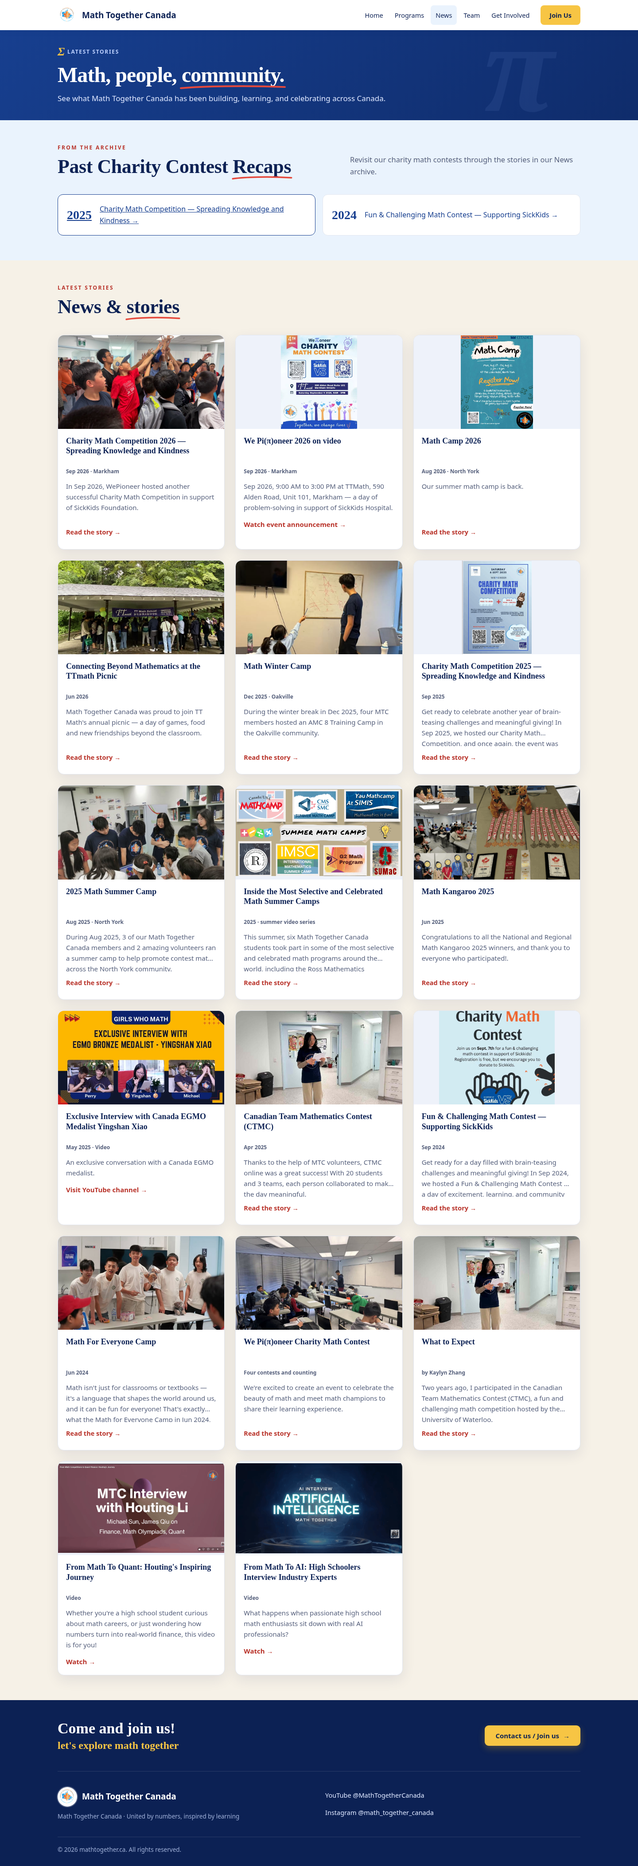
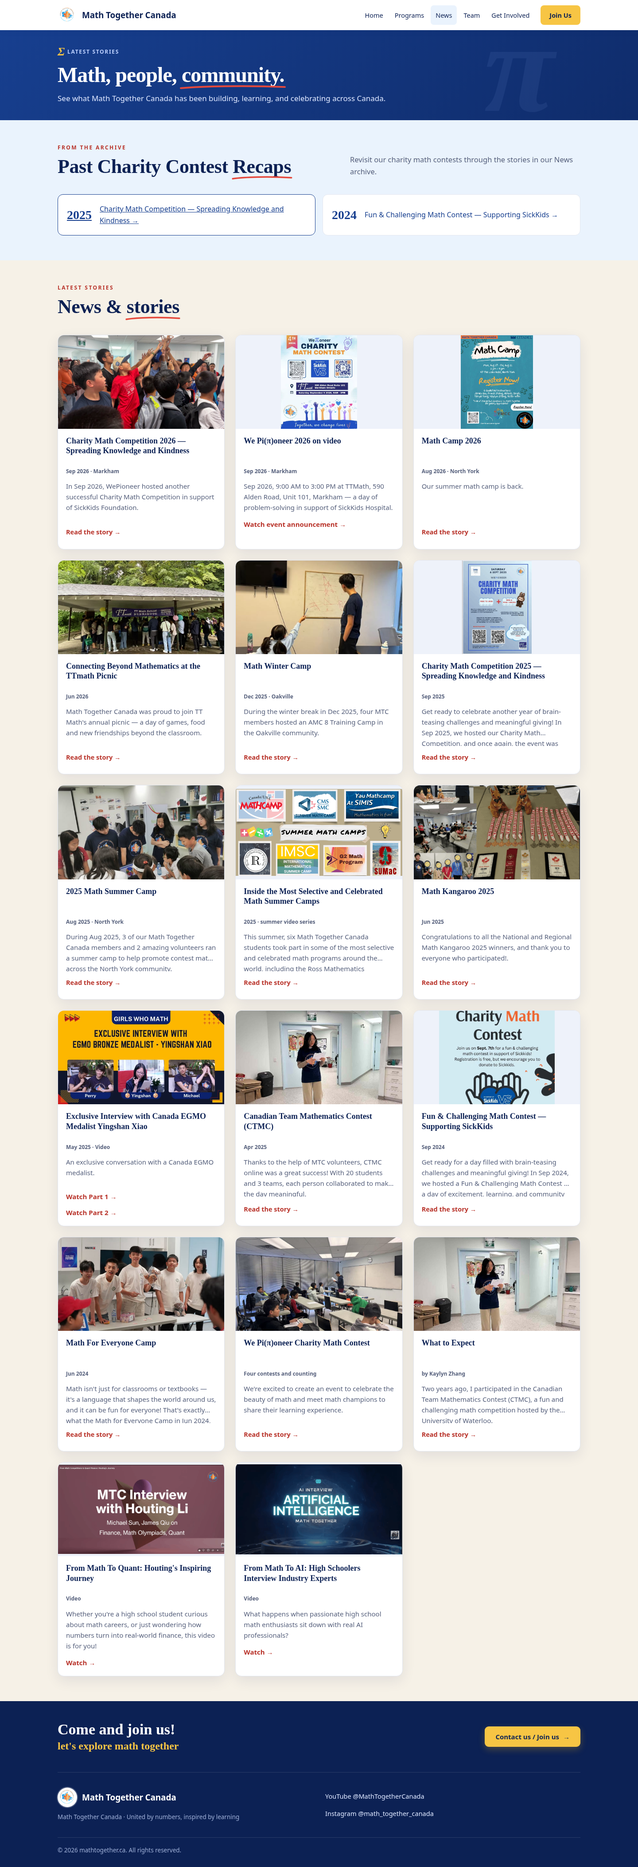
Add confirmed camp and interview videos and refine contest coverage

diff --git a/programs.html b/programs.html
@@ -333,11 +333,16 @@
       <a href="https://youtu.be/YcqCzscEtQo">Watch event announcement</a>
       </div>
      </li>
-     <li id="session-fermat-2025" data-video-status="matched-partial">
+     <li id="session-fermat-2025" data-video-status="owner-confirmed">
       <span><time datetime="2025-05">May 2025</time></span>
       <div class="session-content">
       Complete breakdown of the 2025 Fermat Contest —
-      <a href="https://youtu.be/a3Yr2WHDnII">Watch Fermat Q1–20</a>
+       <div class="session-video-links">
+        <p>
+         <a href="https://www.youtube.com/watch?v=a3Yr2WHDnII">Watch Fermat Q1–20</a>
+         <a href="https://www.youtube.com/watch?v=It0yMNFz8u8">Watch Fermat Q21–25</a>
+        </p>
+       </div>
       </div>
      </li>
      <li id="session-comc-2025" data-video-status="owner-confirmed">
@@ -378,21 +383,29 @@
       <span><time datetime="2025-11">Nov 2025</time></span>
       <div class="session-content">
       Complete breakdown of the 2025 AMC12 Contest —
-      <a href="https://youtu.be/MeyLmhwl-FA">Watch AMC12B Q1–10</a>
-      </div>
-     </li>
-     <li id="session-amc10a-2024" data-video-status="matched-partial-date-unconfirmed">
-      <span><time datetime="2025-06-18">Jun 2025</time></span>
-      <div class="session-content">
-      Complete breakdown of the 2024 AMC10A Contest —
-      <a href="https://www.youtube.com/watch?v=-14eXFsISGw">Watch Part 1 (Q1–10)</a>
+       <div class="session-video-links">
+        <p>
+         <strong>AMC12A</strong>
+         <a href="https://www.youtube.com/watch?v=nXs682bcsNQ">Watch AMC12A Q21–25</a>
+        </p>
+        <p>
+         <strong>AMC12B</strong>
+         <a href="https://www.youtube.com/watch?v=MeyLmhwl-FA">Watch AMC12B Q1–10</a>
+         <a href="https://www.youtube.com/watch?v=PeSHSVGMpNI">Watch AMC12B Q11–20</a>
+        </p>
+       </div>
       </div>
      </li>
      <li id="session-waterloo-2025" data-video-status="retained-partial">
       <span><time datetime="2025">2025</time></span>
       <div class="session-content">
       Waterloo Pascal &amp; Fermat solutions, before official answers are out —
-      <a href="https://youtu.be/a3Yr2WHDnII">Watch Fermat Q1–20</a>
+       <div class="session-video-links">
+        <p>
+         <a href="https://www.youtube.com/watch?v=a3Yr2WHDnII">Watch Fermat Q1–20</a>
+         <a href="https://www.youtube.com/watch?v=It0yMNFz8u8">Watch Fermat Q21–25</a>
+        </p>
+       </div>
       </div>
      </li>
     </ul>

diff --git a/news.html b/news.html
@@ -453,8 +453,20 @@
         enthusiast or charting your own summer adventure, this is your insider's guide to the world of
         elite math camps.
         </p>
-        <p>
-         <span class="recording-pending">Summer Camp Students' Voices recording link pending</span>
+        <p class="story-video-link">
+         <a href="https://www.youtube.com/watch?v=JRGoP28tTjE">SUMaC, Yau &amp; IMO Math Camp Experience →</a>
+        </p>
+        <p class="story-video-link">
+         <a href="https://www.youtube.com/watch?v=r3zC6nGIJXQ">Inside the International Math Summer Camp! IMSC- Shared by MTC Member Michael Sun →</a>
+        </p>
+        <p class="story-video-link">
+         <a href="https://www.youtube.com/watch?v=7tPu9H0FQ88">Inside Canada/USA Mathcamp: Han Shares His Experience →</a>
+        </p>
+        <p class="story-video-link">
+         <a href="https://www.youtube.com/watch?v=NdSrw3FwQCU">Inside G2: A Girls Only Math Community for Math Kids →</a>
+        </p>
+        <p class="story-video-link">
+         <a href="https://www.youtube.com/watch?v=9Lm0e-yhQgs">Inside one of the Top Math Camps! CMC — Shared by MTC Member Prince Zhang →</a>
         </p>
        </details>
       </article>
@@ -695,10 +707,11 @@
        </p>
        <p>
         An exclusive conversation with a Canada EGMO medalist.
-        <a href="https://www.youtube.com/@MathTogetherCanada">
-         Visit YouTube channel →
-        </a>
        </p>
+       <div class="story-video-links">
+        <a href="https://www.youtube.com/watch?v=Bkamz7QCS7I&amp;t=5s">Watch Part 1 →</a>
+        <a href="https://www.youtube.com/watch?v=gnG3twj-XNw">Watch Part 2 →</a>
+       </div>
       </article>
      </div>
     </div>

diff --git a/style.css b/style.css
@@ -219,6 +219,11 @@ h3.sub{font-size:26px;margin-bottom:16px}
 .story details p{font-size:15px;color:var(--muted);margin-top:10px}
 .story>p a{font-weight:700;color:var(--coral);text-decoration:none}
 .story>p a:hover{text-decoration:underline}
+.story-video-links{padding:0 18px 18px;margin-top:auto}
+.story-video-links a{display:block;margin-top:12px;font-size:15px;font-weight:700;color:var(--coral);text-decoration:none}
+.story-video-links a:hover{text-decoration:underline}
+.story-video-links a:focus-visible{outline:3px solid var(--navy);outline-offset:3px}
+.story-video-link a{overflow-wrap:anywhere}
 
 /* story reading overlay (built by app.js) */
 .story-dialog{width:min(700px,92vw);max-height:86vh;margin:auto;padding:0;overflow:hidden;border:0;

diff --git a/tests/content_check.py b/tests/content_check.py
@@ -69,8 +69,14 @@ for key, story in news_new.items():
         assert story.get('data-date-status') == 'needs-confirmation'
     if key == 'news-summer-camp-voices':
         assert not story.select('a[href="https://youtu.be/U1bpogh_TXU"]'), 'Wrong quant interview video must not remain on summer camps'
-        assert story.select_one('.recording-pending')
+        assert not story.select_one('.recording-pending')
+        expected = ['JRGoP28tTjE', 'r3zC6nGIJXQ', '7tPu9H0FQ88', 'NdSrw3FwQCU', '9Lm0e-yhQgs']
+        assert [a['href'] for a in story.select('a')] == ['https://www.youtube.com/watch?v='+video for video in expected]
+        assert all(len(text(a)) > 10 for a in story.select('a'))
         assert 'https://youtu.be/U1bpogh_TXU' in (root/'docs/video-link-audit.md').read_text()
+    elif key == 'news-interview-yingshan':
+        assert [a['href'] for a in story.select('a')] == ['https://www.youtube.com/watch?v=Bkamz7QCS7I&t=5s', 'https://www.youtube.com/watch?v=gnG3twj-XNw']
+        assert all(len(text(a)) > 10 for a in story.select('a'))
     else:
         assert [a['href'] for a in story.select('a')] == [a['href'] for a in old.select('a')], key
 for year in [2024, 2025]:
@@ -106,23 +112,24 @@ for name, expected in expected_bios.items():
 
 sessions_old = original('programs.html').select('.sessions li')
 sessions_new = pages['programs.html'].select('.sessions > li')
-assert len(sessions_old) == 9 and len(sessions_new) == 7
-# Only the two sessions confirmed nonexistent by the user may be removed.
+assert len(sessions_old) == 9 and len(sessions_new) == 6
+# Only the three sessions explicitly removed by the user may be removed.
 removed_descriptions = [
     'Community discussion after the Math Kangaroo Contest, with CMO/CJMO qualifiers',
     'Interactive Q&A session: your burning questions, answered by math experts',
+    'Complete breakdown of the 2024 AMC10A Contest',
 ]
 retained_descriptions = []
 for old in sessions_old:
     description = ''.join(str(t) for t in old.find_all(string=True, recursive=False)).strip().rstrip('—').strip()
     if description not in removed_descriptions:
         retained_descriptions.append(description)
-assert len(retained_descriptions) == 7
+assert len(retained_descriptions) == 6
 for description, session in zip(retained_descriptions, sessions_new):
     assert description in text(session), description
 for removed in removed_descriptions:
     assert removed not in text(pages['programs.html'])
-assert not pages['programs.html'].select('#session-kangaroo-2025, #session-questions-2025, .sessions .recording-pending')
+assert not pages['programs.html'].select('#session-kangaroo-2025, #session-questions-2025, #session-amc10a-2024, .sessions .recording-pending')
 for session in sessions_new:
     assert session.select_one('time[datetime]')
     assert session.select('a'), session['id']
@@ -134,6 +141,11 @@ expected_comc = ['9343O-spIAI', '24KYT2FrM_Q', 'WeVz3kbnq4U', 'kObBbe_cfIE']
 expected_amc10 = ['WFVfabjtnb4', 'GCJ6smMF7io', '2AHhJ-EjRn4', 'quRP3FsrB6k', 'TiIWCAKGZQg', 'VqWHUufAXvs']
 assert [a['href'] for a in pages['programs.html'].select('#session-comc-2025 a')] == ['https://www.youtube.com/watch?v='+video for video in expected_comc]
 assert [a['href'] for a in pages['programs.html'].select('#session-amc10-2025 a')] == ['https://www.youtube.com/watch?v='+video for video in expected_amc10]
+expected_fermat = ['a3Yr2WHDnII', 'It0yMNFz8u8']
+for session_id in ['session-fermat-2025', 'session-waterloo-2025']:
+    assert [a['href'] for a in pages['programs.html'].select('#'+session_id+' a')] == ['https://www.youtube.com/watch?v='+video for video in expected_fermat]
+expected_amc12 = ['nXs682bcsNQ', 'MeyLmhwl-FA', 'PeSHSVGMpNI']
+assert [a['href'] for a in pages['programs.html'].select('#session-amc12-2025 a')] == ['https://www.youtube.com/watch?v='+video for video in expected_amc12]
 assert len(pages['programs.html'].select('#session-comc-2025 a')) == 4
 assert len(pages['programs.html'].select('#session-amc10-2025 a')) == 6
 assert pages['programs.html'].select_one('#livestream .livestream-channel a')['href'] == 'https://www.youtube.com/@MathTogetherCanada'
@@ -155,4 +167,4 @@ ordered = sorted(data, key=lambda s:s['sort_name'].casefold())
 assert [s['data-supporter-id'] for s in supporters] == [s['id'] for s in ordered]
 assert len({s['id'] for s in data}) == 6
 subprocess.run(['python3', 'scripts/render_supporters.py', '--check'], cwd=root, check=True)
-print('PASS: local files/anchors, navigation, FAQ preservation, profile text/photos/positions, 17 News records and date precision, seven confirmed sessions, six supporters and homepage statistics.')
+print('PASS: local files/anchors, navigation, FAQ preservation, profile text/photos/positions, 17 News records and date precision, six confirmed sessions, six supporters and homepage statistics.')

diff --git a/tests/browser_check.py b/tests/browser_check.py
@@ -59,10 +59,13 @@ with sync_playwright() as p:
    if name in ['programs','news','team','get-involved']:
     assert page.locator('.page-hero-lede').evaluate('(e)=>Math.abs(e.getBoundingClientRect().width-e.closest(".page-hero-in").getBoundingClientRect().width)<1')
    if name=='programs':
-    assert page.locator('.sessions > li').count()==7
+    assert page.locator('.sessions > li').count()==6
     assert page.locator('#session-comc-2025 a').count()==4
     assert page.locator('#session-amc10-2025 a').count()==6
-    assert not page.locator('#session-kangaroo-2025, #session-questions-2025, .sessions .recording-pending').count()
+    assert page.locator('#session-amc12-2025 a').count()==3
+    assert page.locator('#session-fermat-2025 a').count()==2
+    assert page.locator('#session-waterloo-2025 a').count()==2
+    assert not page.locator('#session-kangaroo-2025, #session-questions-2025, #session-amc10a-2024, .sessions .recording-pending').count()
     assert page.locator('.sessions a').evaluate_all('(es)=>es.every(a=>!a.href.includes("@MathTogetherCanada"))')
     assert page.locator('.session-content a').evaluate_all('(es)=>es.every(e=>{const r=e.getBoundingClientRect();return r.width>0&&r.left>=0&&r.right<=innerWidth;} )')
 
@@ -79,7 +82,7 @@ with sync_playwright() as p:
     grid.scroll_into_view_if_needed()
     grid.locator('img').evaluate_all('(es)=>es.forEach(e=>e.loading="eager")')
     page.wait_for_function('Array.from(document.querySelectorAll(".supporter-grid img")).every(e=>e.complete&&e.naturalWidth>0)')
-    assert grid.locator('img').evaluate_all('(es)=>es.every(e=>e.complete&&e.naturalWidth>0&&getComputedStyle(e).objectFit==="contain")')
+    assert grid.locator('img').evaluate_all('(es)=>es.every(e=>e.complete&&e.naturalWidth>0&&getComputedStyle(e).objectFit==="contain"&&Math.abs(e.clientWidth/e.clientHeight-e.naturalWidth/e.naturalHeight)<0.03))')
     if width in [375,390,1440]:
      columns=grid.locator('a').evaluate_all('(es)=>{const top=es[0].getBoundingClientRect().top;return es.filter(e=>Math.abs(e.getBoundingClientRect().top-top)<1).length;}')
      assert columns==(4 if width==1440 else 2),(width,'supporter columns',columns)
@@ -87,6 +90,16 @@ with sync_playwright() as p:
     assert not page.locator('#involved .kicker, .hero-scribble, blockquote.pull').count()
     assert page.locator('#involved h2').evaluate('(e)=>parseFloat(getComputedStyle(e).fontSize)')>=34
    if name=='news':
+    assert page.locator('#news-summer-camp-voices details a').count()==5
+    assert page.locator('#news-interview-yingshan a').count()==2
+    page.locator('#news-summer-camp-voices summary').click()
+    page.locator('.story-dialog').wait_for(state='visible')
+    assert page.locator('.story-dialog a').count()==5
+    assert page.locator('.story-dialog').evaluate('(e)=>e.scrollWidth<=e.clientWidth')
+    assert page.locator('.story-dialog a').evaluate_all('(es)=>es.every(a=>a.textContent.trim().length>10)')
+    page.keyboard.press('Escape')
+    page.locator('#news-interview-yingshan').scroll_into_view_if_needed()
+    assert page.locator('#news-interview-yingshan a').evaluate_all('(es)=>es.every(a=>{const r=a.getBoundingClientRect();return a.textContent.trim().length>10&&r.width>0&&r.left>=0&&r.right<=innerWidth;} )')
     for year in [2024,2025]:
      expected_title=page.locator(f'#news-charity-{year} h3').inner_text()
      page.locator(f'#historical-recaps a[href="#news-charity-{year}"]').click()

diff --git a/docs/video-link-audit.md b/docs/video-link-audit.md
@@ -2,23 +2,23 @@
 
 Reviewed on 2 Nov 2026 against `main` at `c0f98861a1978cc51f1f9540e3e53728d5742e93`.
 
-The official channel is [Math Together / @MathTogetherCanada](https://www.youtube.com/@MathTogetherCanada), also identified by YouTube's indexed channel result as [UCOPT02TMkuXp69XkobHyKDA](https://www.youtube.com/channel/UCOPT02TMkuXp69XkobHyKDA). Repository history back to the initial site uses the same original URLs. On 2 Nov 2026 the site owner supplied ten official COMC/AMC10 recording URLs and confirmed that the Kangaroo discussion and interactive Q&A content do not exist; those two entries were removed as requested.
+The official channel is [Math Together / @MathTogetherCanada](https://www.youtube.com/@MathTogetherCanada), also identified by YouTube's indexed channel result as [UCOPT02TMkuXp69XkobHyKDA](https://www.youtube.com/channel/UCOPT02TMkuXp69XkobHyKDA). Repository history back to the initial site uses the same original URLs. On 2 Nov 2026 the site owner supplied and confirmed the COMC, AMC10, Fermat, AMC12, Summer Camp Students’ Voices and Yingshan Xiao recording destinations. The owner confirmed the Kangaroo discussion and interactive Q&A content do not exist and requested removal of the 2024 AMC10A entry; all three session entries were removed.
 
-YouTube watch-page titles and indexed YouTube descriptions were checked. The official channel's Videos/Streams listing and oEmbed endpoints were throttled by the browsing service. Titles were available for the existing direct links, but playback, complete transcripts, and most exact publication dates were unavailable. A title match is not a claim that the linked video covers an entire contest. Partial coverage is explicit in the action label. Original date labels for the seven retained event/session entries are kept and formatted; they are not newly asserted video publication dates. Owner confirmation establishes the supplied recordings, while watch-page titles independently confirm the contest and question ranges. No upload dates were inferred from the supplied URLs.
+YouTube watch-page titles and indexed YouTube descriptions were checked. The official channel's Videos/Streams listing and oEmbed endpoints were throttled by the browsing service. Titles were available for the existing direct links, but playback, complete transcripts, and most exact publication dates were unavailable. A title match is not a claim that the linked video covers an entire contest. Partial coverage is explicit in the action label. Original date labels for the six retained event/session entries are kept and formatted; they are not newly asserted video publication dates. Owner confirmation establishes the supplied recordings, while watch-page titles independently confirm the contest and question ranges. No upload dates were inferred from the supplied URLs.
 
 ## Every Programs / Livestream entry
 
 | Entry (original session label) | Old URL | Proposed / implemented URL | Verification status and action |
 |---|---|---|---|
 | 4th Annual We Pi(π)oneer Charity Math Contest — Sep 2026 | https://youtu.be/YcqCzscEtQo | https://youtu.be/YcqCzscEtQo | Retained existing direct link. YouTube title is **We Pioneer 4th Charity Math Contest Coming Soon！** It is an announcement, so the action now says **Watch event announcement**. Exact upload date/playback not independently verified. |
-| Complete breakdown of the 2025 Fermat Contest — May 2025 | https://youtu.be/TA2mtv_Prxc | https://youtu.be/a3Yr2WHDnII | Corrected content mismatch: old title is **2024 Euclid: Problems 1-4**. New title is **2025 Fermat Contest Questions 1 - 20**, indexed by YouTube as **By: Math Together**. Action says **Watch Fermat Q1–20**, not complete coverage. The new URL already exists in the project. Exact publication date unverified; existing May label retained. |
+| Complete breakdown of the 2025 Fermat Contest — May 2025 | https://youtu.be/TA2mtv_Prxc | Q1–20: https://www.youtube.com/watch?v=a3Yr2WHDnII <br> Q21–25: https://www.youtube.com/watch?v=It0yMNFz8u8 | Corrected the old Euclid-content mismatch. Owner supplied both Fermat destinations; YouTube titles confirm **2025 Fermat Contest Questions 1 - 20** and **2025 Fermat Contest Questions 21 - 25**. Both question ranges are labeled explicitly. Exact publication dates unavailable; existing May label retained. |
 | Complete breakdown of the 2025 COMC Contest — Nov 2025 | https://youtu.be/GCJ6smMF7io | B3 & B4: https://www.youtube.com/watch?v=9343O-spIAI <br> C1 & C2: https://www.youtube.com/watch?v=24KYT2FrM_Q <br> C3: https://www.youtube.com/watch?v=WeVz3kbnq4U <br> C4: https://www.youtube.com/watch?v=kObBbe_cfIE | Owner supplied all four recordings on 2 Nov 2026 and confirmed the first recording covers **B3 & B4**, matching the YouTube title. All four COMC 2025 question ranges are confirmed. Original URL is AMC10A Q11–20 and now belongs under AMC10A. No fabricated publication dates. |
 | Complete breakdown of the 2025 AMC10 Contest — Nov 2025 | https://youtu.be/MeyLmhwl-FA | AMC10A Q1–10: https://www.youtube.com/watch?v=WFVfabjtnb4 <br> AMC10A Q11–20: https://www.youtube.com/watch?v=GCJ6smMF7io <br> AMC10A Q21–25: https://www.youtube.com/watch?v=2AHhJ-EjRn4 <br> AMC10B Q1–10: https://www.youtube.com/watch?v=quRP3FsrB6k <br> AMC10B Q11–20: https://www.youtube.com/watch?v=TiIWCAKGZQg <br> AMC10B Q21–25: https://www.youtube.com/watch?v=VqWHUufAXvs | Owner supplied and confirmed all six recordings on 2 Nov 2026; YouTube titles independently match both complete question ranges. Rendered in clearly labeled AMC10A and AMC10B groups. Original URL belongs to AMC12B and remains under that entry. Publication dates not invented. |
-| Complete breakdown of the 2025 AMC12 Contest — Nov 2025 | https://www.youtube.com/@MathTogetherCanada | https://youtu.be/MeyLmhwl-FA | Reliable contest/content match from the existing project URL and YouTube title **2025 AMC 12B \| Q1–10 Step-by-Step with Abhiraj**. Indexed description contains `#MathTogetherCanada`, `#MTC`, `#Abhiraj`, `#AMC12B` and `#AMC2025`. Action explicitly says **Watch AMC12B Q1–10**. Exact upload day/month not exposed; no publication date was invented. |
+| Complete breakdown of the 2025 AMC12 Contest — Nov 2025 | https://www.youtube.com/@MathTogetherCanada | AMC12A Q21–25: https://www.youtube.com/watch?v=nXs682bcsNQ <br> AMC12B Q1–10: https://www.youtube.com/watch?v=MeyLmhwl-FA <br> AMC12B Q11–20: https://www.youtube.com/watch?v=PeSHSVGMpNI | Owner supplied all three destinations; YouTube titles confirm the exact contest variants and question ranges. Separate AMC12A and AMC12B groups explicitly label the available coverage. No AMC12A Q1–20 or AMC12B Q21–25 destination was invented or implied. Original Nov label retained; exact upload dates unavailable. |
 | Community discussion after the Math Kangaroo Contest, with CMO/CJMO qualifiers — Mar 2025 | https://www.youtube.com/@MathTogetherCanada | Removed at owner request | On 2 Nov 2026 the owner confirmed this content does not exist. The complete session entry was removed, rather than retaining a channel placeholder or pending recording claim. Original source date was `2025-03-23`. |
 | Interactive Q&A session: your burning questions, answered by math experts — Apr 2025 | https://youtu.be/hiDEBL1ieIk | Removed at owner request | On 2 Nov 2026 the owner confirmed this content does not exist. The complete session entry was removed. Its original URL is AMC10A Part 4, not Q&A. Original source date was `2025-04-28`. |
-| Complete breakdown of the 2024 AMC10A Contest — Jun 2025 | https://www.youtube.com/@MathTogetherCanada | https://www.youtube.com/watch?v=-14eXFsISGw | Official Math Together indexed result identifies **Solving 2024 AMC 10A with Prince Zhang – Part 1**, Q1–10, published **2025-05-27**, with `#MathTogetherCanada`. Exact contest/year and series confirmed. Action says **Watch Part 1 (Q1–10)**. Original June session label retained; its meaning/date needs confirmation because the video was published in May. |
-| Waterloo Pascal & Fermat solutions, before official answers are out — 2025 | https://youtu.be/a3Yr2WHDnII | https://youtu.be/a3Yr2WHDnII | Existing direct URL retained. Title/Math Together uploader confirms **2025 Fermat Contest Questions 1 - 20**. Action now says **Watch Fermat Q1–20**; it does not claim Pascal is covered. Only year is known from the original label, so no month was added. |
+| Complete breakdown of the 2024 AMC10A Contest — Jun 2025 | https://www.youtube.com/@MathTogetherCanada | Removed at owner request | The owner’s latest instruction explicitly removes this complete session entry. This supersedes the earlier date clarification and the interim verified series-start link. No replacement date or recording is displayed. |
+| Waterloo Pascal & Fermat solutions, before official answers are out — 2025 | https://youtu.be/a3Yr2WHDnII | Fermat Q1–20: https://www.youtube.com/watch?v=a3Yr2WHDnII <br> Fermat Q21–25: https://www.youtube.com/watch?v=It0yMNFz8u8 | Both owner-supplied Fermat destinations are available here as well as in the dedicated Fermat row. Each action explicitly identifies Fermat and its question range. Existing year-only label retained; no month added. |
 
 ## Owner-confirmed COMC and AMC10 recordings
 
@@ -37,37 +37,40 @@ The site owner supplied these ten official recording URLs on 2 Nov 2026. Each UR
 | AMC10B Q11–20 | https://www.youtube.com/watch?v=TiIWCAKGZQg | **2025 AMC 10B \| Q11-20 Step by Step Solutions**; owner and title confirmed. |
 | AMC10B Q21–25 | https://www.youtube.com/watch?v=VqWHUufAXvs | **2025 AMC 10B \| Q21-25 Step by Step Solutions**; owner and title confirmed. |
 
-All nine original session entries are accounted for in the preceding old/new audit. Seven remain on the site after the owner's removal of the two nonexistent sessions. All retained Programs sessions have direct recording links with confirmed COMC and AMC10 question-range labels.
+All nine original session entries are accounted for in the preceding old/new audit. Six remain after the owner-requested removal of the Kangaroo discussion, interactive Q&A and 2024 AMC10A entries. The six sessions contain 18 direct-video actions and 16 unique destinations, including the duplicated two-part Fermat coverage. All ten confirmed COMC/AMC10 URLs remain unchanged.
 
 ## Additional video destinations checked
 
 | Entry | Old URL | Proposed / implemented URL | Verification status |
 |---|---|---|---|
-| Programs: Webinars & Guest Speakers, Learn more | https://youtu.be/Bkamz7QCS7I | Unchanged | YouTube title: **Exclusive interview with Canada EGMO Medalist Yingshan Xiao - Part 1**. Relevant existing direct link retained. Exact uploader/publication not independently exposed. |
+| Programs: Webinars & Guest Speakers, Learn more | https://youtu.be/Bkamz7QCS7I | Unchanged | YouTube title: **Exclusive interview with Canada EGMO Medalist Yingshan Xiao - Part 1**. Existing relevant direct link retained. |
 | News: We Pi(π)oneer 2026 on video | https://youtu.be/YcqCzscEtQo | Unchanged | Same event announcement as above; existing direct URL retained with accurate **Watch event announcement** action. |
-| News: Summer Camp Students' Voices series | https://youtu.be/U1bpogh_TXU | — pending correct URL | Title is **From Math Competitions to Quant Finance: Houting's Journey**. This is the quant interview, not the camp series. Wrong watch link replaced with **Summer Camp Students' Voices recording link pending**; original URL retained here. |
+| News: Summer Camp Students' Voices series | https://youtu.be/U1bpogh_TXU | SUMaC, Yau & IMO: https://www.youtube.com/watch?v=JRGoP28tTjE <br> IMSC: https://www.youtube.com/watch?v=r3zC6nGIJXQ <br> Canada/USA Mathcamp: https://www.youtube.com/watch?v=7tPu9H0FQ88 <br> G2: https://www.youtube.com/watch?v=NdSrw3FwQCU <br> CMC: https://www.youtube.com/watch?v=9Lm0e-yhQgs | Owner supplied all five recordings; their YouTube titles match the camp subjects. The incorrect quant-interview link was replaced with five individually labeled direct links. Existing year-only date remains; no missing publication month was invented. |
 | News: From Math To Quant: Houting's Inspiring Journey | https://youtu.be/U1bpogh_TXU?si=UpPfYlJ6ZrDvGlpA | Unchanged | YouTube title matches Houting/quant subject. Correct direct destination and original sharing parameter retained. Publication date not provided. |
 | News: From Math To AI: High Schoolers Interview Industry Experts | https://youtu.be/AX8SASSnGyE | Unchanged | YouTube title **From Math to AI: High Schoolers Interview Industry Experts** matches. Existing direct URL retained; exact publication date unavailable. |
-| News: Exclusive Interview with Canada EGMO Medalist Yingshan Xiao | https://www.youtube.com/@MathTogetherCanada | Unchanged pending further confirmation | Existing project URL `Bkamz7QCS7I` is a strong title/content candidate (Part 1), but uploader and publication date cannot be independently cross-checked against the May 2025 label. The action now accurately says **Visit YouTube channel**. No guessed ID added. |
+| News: Exclusive Interview with Canada EGMO Medalist Yingshan Xiao | https://www.youtube.com/@MathTogetherCanada | Part 1: https://www.youtube.com/watch?v=Bkamz7QCS7I&t=5s <br> Part 2: https://www.youtube.com/watch?v=gnG3twj-XNw | Owner supplied both interview recordings and approved **May 2025**. YouTube titles independently match Yingshan Xiao and Part 1/Part 2. Exact supplied Part 1 `t=5s` parameter preserved. The existing `data-date="2025-05-19"` remains unchanged and is not newly asserted as a verified upload date. |
 
-## Confirmed AMC10A series source metadata
+## Owner-confirmed supplementary recordings
 
-The indexed official YouTube results identify these as uploaded by **Math Together**, describe the exact 2024 AMC10A questions, and include `#MathTogetherCanada`:
+The owner supplied these destinations. YouTube page titles confirm the visible subjects and question/part labels. Exact supplied `www.youtube.com/watch?v=` URLs are preserved; title checks sometimes used YouTube’s equivalent short-link redirect because direct watch-page fetching was throttled.
 
-| Video | Publication date (machine format, for audit only) | URL |
+| Recording | Supplied / implemented URL | YouTube title / verification |
 |---|---|---|
-| Part 1, Q1–10 | 2025-05-27 | https://www.youtube.com/watch?v=-14eXFsISGw |
-| Part 2, Q11–15 | 2025-05-28 | https://www.youtube.com/watch?v=PAqPP3sorgo |
-| Part 3, Q16–20 | 2025-05-29 | https://www.youtube.com/watch?v=4rHjdQuz8Bw |
-| Part 4 (title confirmed; publication unverified) | Unknown | https://youtu.be/hiDEBL1ieIk |
+| Fermat Q1–20 | https://www.youtube.com/watch?v=a3Yr2WHDnII | **2025 Fermat Contest Questions 1 - 20**; title and existing Math Together uploader evidence match. |
+| Fermat Q21–25 | https://www.youtube.com/watch?v=It0yMNFz8u8 | **2025 Fermat Contest Questions 21 - 25**; owner and title confirmed. |
+| AMC12A Q21–25 | https://www.youtube.com/watch?v=nXs682bcsNQ | **2025 AMC 12A: Question 21-25**; only this question range is labeled. |
+| AMC12B Q1–10 | https://www.youtube.com/watch?v=MeyLmhwl-FA | **2025 AMC 12B \| Q1–10 Step-by-Step with Abhiraj**; owner and title confirmed. |
+| AMC12B Q11–20 | https://www.youtube.com/watch?v=PeSHSVGMpNI | **2025 AMC 12B \| Q11-20 Step-by-Step with Abhiraj**; owner and title confirmed. |
+| Summer Camp Students’ Voices: SUMaC, Yau & IMO | https://www.youtube.com/watch?v=JRGoP28tTjE | **SUMaC, Yau & IMO Math Camp Experience**; owner-supplied destination and matching title. |
+| Summer Camp Students’ Voices: IMSC | https://www.youtube.com/watch?v=r3zC6nGIJXQ | **Inside the International Math Summer Camp! IMSC- Shared by MTC Member Michael Sun**; owner-supplied destination and matching title. |
+| Summer Camp Students’ Voices: Canada/USA Mathcamp | https://www.youtube.com/watch?v=7tPu9H0FQ88 | **Inside Canada/USA Mathcamp: Han Shares His Experience**; owner-supplied destination and matching title. |
+| Summer Camp Students’ Voices: G2 | https://www.youtube.com/watch?v=NdSrw3FwQCU | **Inside G2: A Girls Only Math Community for Math Kids**; owner-supplied destination and matching title. |
+| Summer Camp Students’ Voices: CMC | https://www.youtube.com/watch?v=9Lm0e-yhQgs | **Inside one of the Top Math Camps! CMC — Shared by MTC Member Prince Zhang**; owner-supplied destination and matching title. |
+| Yingshan Xiao interview, Part 1 | https://www.youtube.com/watch?v=Bkamz7QCS7I&t=5s | **Exclusive interview with Canada EGMO Medalist Yingshan Xiao - Part 1**; owner and title confirmed. |
+| Yingshan Xiao interview, Part 2 | https://www.youtube.com/watch?v=gnG3twj-XNw | **Exclusive interview with Canada EGMO Medalist Yingshan Xiao - Part 2**; owner and title confirmed. |
 
-Part 1 is used as an explicitly labeled series starting point, rather than silently presenting one part as a complete recording. Other parts are preserved here for reviewer follow-up.
+## 核实状态与测试限制
 
-## 待用户补充或确认
+本轮视频链接问题已按用户提供的链接和最终指示处理。Fermat、AMC12、Summer Camp Students’ Voices 与 Yingshan Xiao 访谈均使用已确认的指定链接；COMC 首条题号已确认为 B3 & B4。2024 AMC10A 条目已按最新指示删除，原有日期问题不再适用。没有新增待补充录像请求，也没有推测未提供的题号或播放列表。
 
-- 请确认 **2024 AMC10A** 条目原有的 **2025 年 6 月** 日期是活动日期还是其他日期。已找到 Prince Zhang 系列第一集，YouTube 公布的上传日期为 **2025-05-27**；页面没有据此擅自更改原有月份。
-- 已找到并明确标注 Fermat Q1–20、AMC12B Q1–10 和 AMC10A Part 1 的部分讲解。如需“完整讲解”，请提供其余集数或完整官方播放列表。
-- 请提供 **Summer Camp Students' Voices** 的正确系列链接；原链接实际指向 Houting 的量化金融访谈。
-- **Yingshan Xiao 访谈**的候选链接是已有项目中的 `https://youtu.be/Bkamz7QCS7I`（Part 1）。请确认是否应替换 News 卡片中的频道链接，以及原有 May 2025 日期是否准确。
-
-No video IDs, recording publication dates, or missing event details were invented. No videos were downloaded or republished.
+YouTube 页面标题可核对视频主题，但浏览服务未提供完整播放、字幕或多数精确上传日期。页面保留已有日期精度，未知月份仍不补造；本次未将活动日期改称视频发布日期。

diff --git a/docs/round-3-review.md b/docs/round-3-review.md
@@ -9,17 +9,14 @@
 - 保留 TTmath、Citadel，增加四家指定支持机构；依官方英文名称排序，添加不含排名含义的说明。桌面四列、手机两列，112px 等高标志容器，图片保持原比例。六家机构及两处机构统计共用 `data/supporters.json`，通过 `scripts/render_supporters.py` 生成静态内容。
 - 按原文更新 Perry、Kaylyn、Xuanyi(Prince) 的姓名和两段简介，照片、职位及其余 13 名成员保持不变。较长简介支持键盘滚动。
 - 按最终澄清显示 **850+ Students Reached**；社区伙伴统计核实为 **6**。
-- 审核全部九条原有 Programs/Livestream 记录；按用户确认删除不存在的 Math Kangaroo 赛后讨论和 Interactive Q&A，现保留七条。补齐用户提供的四条 COMC 和六条 AMC10A/AMC10B 官方录像，逐条核对 YouTube 标题并标注题号范围；首条 COMC 已按用户确认显示 B3 & B4，十条录像的题号范围均已确认。Programs 不再有缺失录像链接。保留完整 [旧/新链接与核实表](video-link-audit.md)。
-- News、Programs、首页新闻日期显示统一为 `Mon YYYY`，保留原有完整日期和排序精度；缺少月份时不补造。
+- 审核全部九条原有 Programs/Livestream 记录；按用户确认移除 Math Kangaroo 赛后讨论、Interactive Q&A 和 2024 AMC10A，现保留六条。补齐 COMC、AMC10A/AMC10B、Fermat 两部分、AMC12A Q21–25 和 AMC12B Q1–20 的指定录像，所有链接按核实范围标注。News 夏令营系列新增五条视频并使用各视频原题，Yingshan 访谈新增两集并保留 Part 1 的五秒时间参数；May 2025 标签已获用户确认。完整 [旧/新链接与核实表](video-link-audit.md)记录所有原条目和新增视频。
+- News、Programs、首页新闻日期显示统一为 `Mon YYYY`，保留原有完整日期和排序精度；用户已确认缺少月份或发布日期的内容保留现有信息，不补造。
 - 所有九页补齐 production domain 的 SEO、分享元数据；添加 sitemap、robots、favicon 和有用的结构化数据。拟议分享封面尚未发布或用于元数据。
 
 ## 待补充或确认
 
-1. 请提供 **Summer Camp Students’ Voices** 的正确系列链接。COMC 与 AMC10 录像已按用户提供链接补齐；Math Kangaroo 赛后讨论与 Interactive Q&A 已按用户确认移除。
-2. 请确认 **2024 AMC10A** 原有 **Jun 2025** 标签的含义；已核实系列首集上传于 2025 年 5 月，页面保留原标签，未擅自修改活动日期。
-3. 请确认 **Yingshan Xiao** 访谈候选 `https://youtu.be/Bkamz7QCS7I`（Part 1）及原有 May 2025 标签。News 目前保留频道入口，并准确标注为访问频道。
-4. 请提供 **Jane Street、小月牙医、志鸿牙医 / Dr Hong Dental、BLACK BELT WORLD** 获准使用的原始标志文件。当前使用文字标志；保留既有 TTmath、Citadel 图片。Dr Hong Dental 指定的 HTTP 地址未能核实实时可达性，请确认是否仍有效。
-5. 请审核聊天中提供的 **1200 × 630 分享封面提案**及其生成的标志处理。文件不在提交内容中，不会上线。当前元数据继续使用已有获准的活动照片。
+1. 四家新增支持者的 logo 预览已在聊天中提供，但执行环境没有收到可读取的原图文件或附件引用，暂保留文字标志。请将原图作为文件/ZIP 附件上传，或放入此功能分支的 `assets/img/sponsors/`，即可接入。保留既有 TTmath、Citadel 图片。Dr Hong Dental 指定的 HTTP 官网已获用户确认有效，链接保持原样。
+2. **1200 × 630 分享封面提案**仍等待批准，包括其中生成的标志处理。文件不在提交内容中，不会上线。当前元数据继续使用已有获准的活动照片。
 
 ## 验证与限制
 

diff --git a/docs/supporters.md b/docs/supporters.md
@@ -15,7 +15,9 @@ the Chinese names supplied by the site owner.
 
 - Citadel and TTmath use the existing repository artwork, unaltered.
 - Jane Street, BLACK BELT WORLD, 志鸿牙医 / Dr Hong Dental, and 小月牙医 use plain
-  text wordmarks pending original logo files and confirmation of suitable use.
+  text wordmarks until their original image files can be imported. The owner
+  supplied logo previews in chat, but no readable attachment files or file IDs
+  were exposed to this execution environment.
   These are text treatments, not reconstructed or unofficial logos.
 
 The new supporter destinations were supplied by the site owner. On 2026-11-02,
@@ -25,11 +27,11 @@ the official [Jane Street website](https://www.janestreet.com/) and
 Woodbine-Steeles Dental Clinic, so it is sorted under W. The supplied
 [Dr Hong Dental HTTP website](http://www.hongdental2014.com/) could not be fetched
 by the verification browser; the owner-supplied URL is preserved without guessing
-an HTTPS replacement. No third-party directory logo was substituted.
+an HTTPS replacement. The owner subsequently confirmed that the supplied HTTP
+website is valid; its URL remains unchanged. No third-party directory logo was substituted.
 
 ## 需要补充的素材
 
-请提供 Jane Street、小月牙医（Woodbine-Steeles Dental Clinic）、志鸿牙医 / Dr Hong Dental、
-BLACK BELT WORLD 的原始徽标文件（建议透明背景 SVG 或 PNG），并确认可用于支持者展示。
-目前已使用简洁的文字标识，保留所有官网链接。志鸿牙医的官网在本次验证时未能加载，
-请确认所提供的 HTTP 链接仍然有效。
+四家机构的 logo 预览已收到，但本执行环境没有可读取的原图文件。请将原始 PNG、JPG
+或 SVG 通过文件/ZIP 附件上传，或上传至 `feat/website-round-3` 分支的
+`assets/img/sponsors/` 目录。目前保留文字标识和全部官网链接；志鸿牙医 HTTP 官网已获用户确认有效。

diff --git a/docs/news-maintenance.md b/docs/news-maintenance.md
@@ -14,13 +14,13 @@
 
 首页链接采用 `news.html#<story-id>`。有完整文章的条目自动打开对应阅读弹窗；视频条目定位到对应卡片并保留原始视频链接。JavaScript 被禁用或读取失败时，首页保留 News 页面入口。请通过 HTTP 服务或 GitHub Pages 访问，不能通过 `file://` 读取新闻。
 
-## 当前日期待确认清单
+## 当前日期精度（用户确认保留）
 
 原网站没有区分发布日期与活动日期。当前 9 条精确日期直接取自原有新闻日期标签，未新增日期；原文未区分活动日期和发布日期，无法独立核实实际发布日。
 
 其余 8 条未设置 `data-date`。按用户确认的规则，四条夏令营/冬令营相关新闻使用原文明确年份（`data-year`、`data-date-status="year-only"`）参与首页选择；有已知活动月份的条目显示月份与年份，只有季节时仍仅显示年份。同年这些条目保留源文件从左到右位置。另四条连年份也未提供，标记 `needs-confirmation`，不进入首页选择。没有为日期范围、月份或季节补造日期。
 
-| 新闻 | 原有日期文字 | 待确认原因 |
+| 新闻 | 原有日期文字 | 当前精度依据 |
 |---|---|---|
 | Math Camp 2026 | August 17–21, 2026 · North York | 活动日期范围，未说明发布日期 |
 | Math Winter Camp | December 2025 · Oakville | 只有月份 |
@@ -31,7 +31,7 @@
 | From Math To Quant: Houting's Inspiring Journey | Video | 没有日期 |
 | From Math To AI: High Schoolers Interview Industry Experts | Video | 没有日期 |
 
-确认后，只需在对应 News 卡片设置真实的 `data-date` 并移除待确认标记。自动选择无需再改首页。
+用户已确认保留现有信息，不补造缺少的月份或发布日期。将来获得真实发布日期时，可在对应 News 卡片设置真实的 `data-date` 并移除待确认标记。自动选择无需再改首页。
 
 ## 测试
 

diff --git a/previews/README.md b/previews/README.md
@@ -16,6 +16,6 @@ Open an image and use GitHub’s **Raw** or **Download** control to view it at f
 
 Home and News screenshots include automatic Latest News: three homepage cards selected from the News source. Exact dates are sorted descending; year-only items retain their source positions within the same year. Four items have no known year and remain outside homepage selection. See [date status](../docs/news-maintenance.md).
 
-Programs groups the supplied COMC and AMC10A/AMC10B recordings by question range and labels partial recordings accurately. Two nonexistent recordings were removed after owner confirmation. News marks the unresolved Summer Camp recording as pending. The complete old/new URL table is in [the video audit](../docs/video-link-audit.md). Date labels use abbreviated English month and year while full machine dates and Latest News sorting are preserved.
+Programs groups the supplied COMC, AMC10, Fermat and AMC12 recordings by question range. Six sessions remain after owner-approved removals. News includes five individually titled Summer Camp videos and both Yingshan interview parts. The complete old/new URL table is in [the video audit](../docs/video-link-audit.md). Date labels use abbreviated English month and year while full machine dates and Latest News sorting are preserved.
 
 The proposed social-sharing cover remains outside the repository pending approval. Metadata uses the existing approved leadership photograph; see [SEO review and testing limits](../docs/seo-review.md).

diff --git a/tests/README.md b/tests/README.md
@@ -14,7 +14,7 @@ node --check app.js
 node --check support.js
 ```
 
-`content_check.py` compares against `origin/main`; fetch that reference before running it. It checks local files and anchors, primary navigation, exact FAQ questions/answers, exact replacement biographies, the other 13 unchanged profiles, preserved photos/positions, all 17 News records and precise date metadata, seven confirmed session descriptions (two nonexistent sessions removed with user authorization), alphabetized supporters and homepage statistics. Approved biography, supporter, date presentation and video link changes are checked separately from preservation.
+`content_check.py` compares against `origin/main`; fetch that reference before running it. It checks local files and anchors, primary navigation, exact FAQ questions/answers, exact replacement biographies, the other 13 unchanged profiles, preserved photos/positions, all 17 News records and precise date metadata, six retained session descriptions (three sessions removed with user authorization), alphabetized supporters and homepage statistics. Approved biography, supporter, date presentation and video link changes are checked separately from preservation.
 
 `seo_check.py` checks unique titles/descriptions, canonical URLs, Open Graph and Twitter metadata, existing social image files/dimensions, JSON-LD syntax, legacy `noindex` metadata, sitemap URLs and robots.txt. It does not claim a production preview crawl occurred.
 
